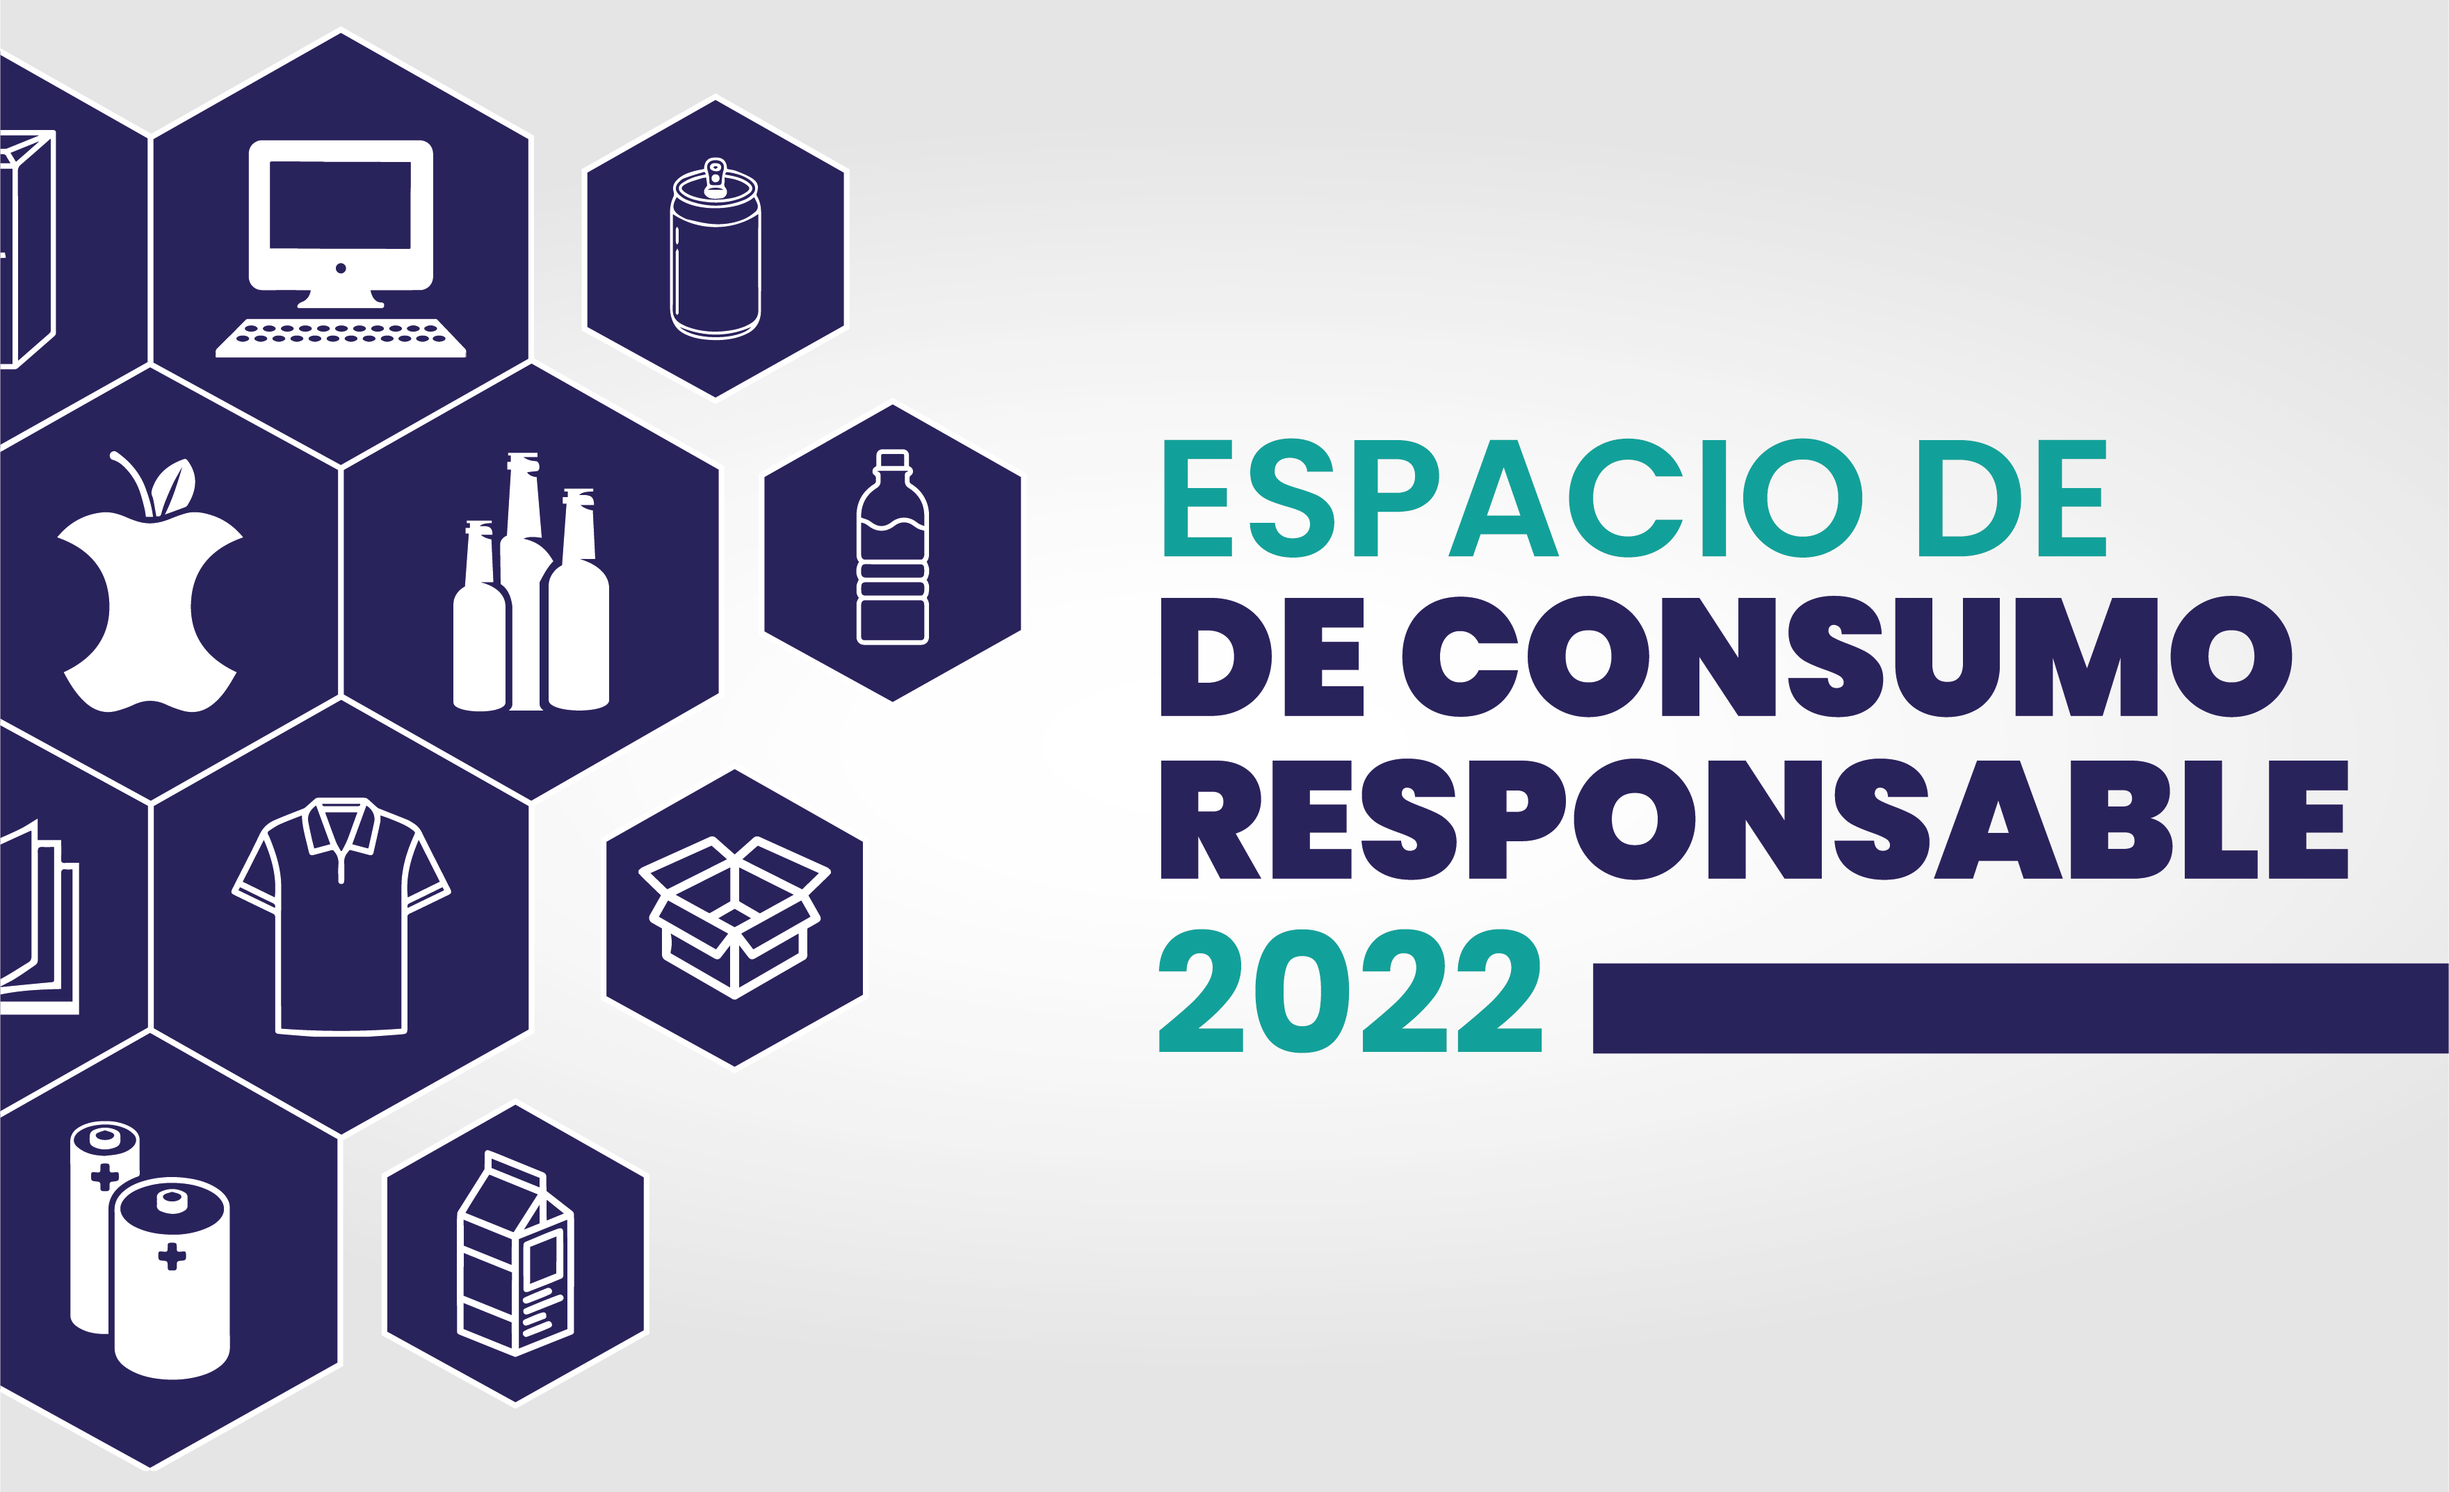
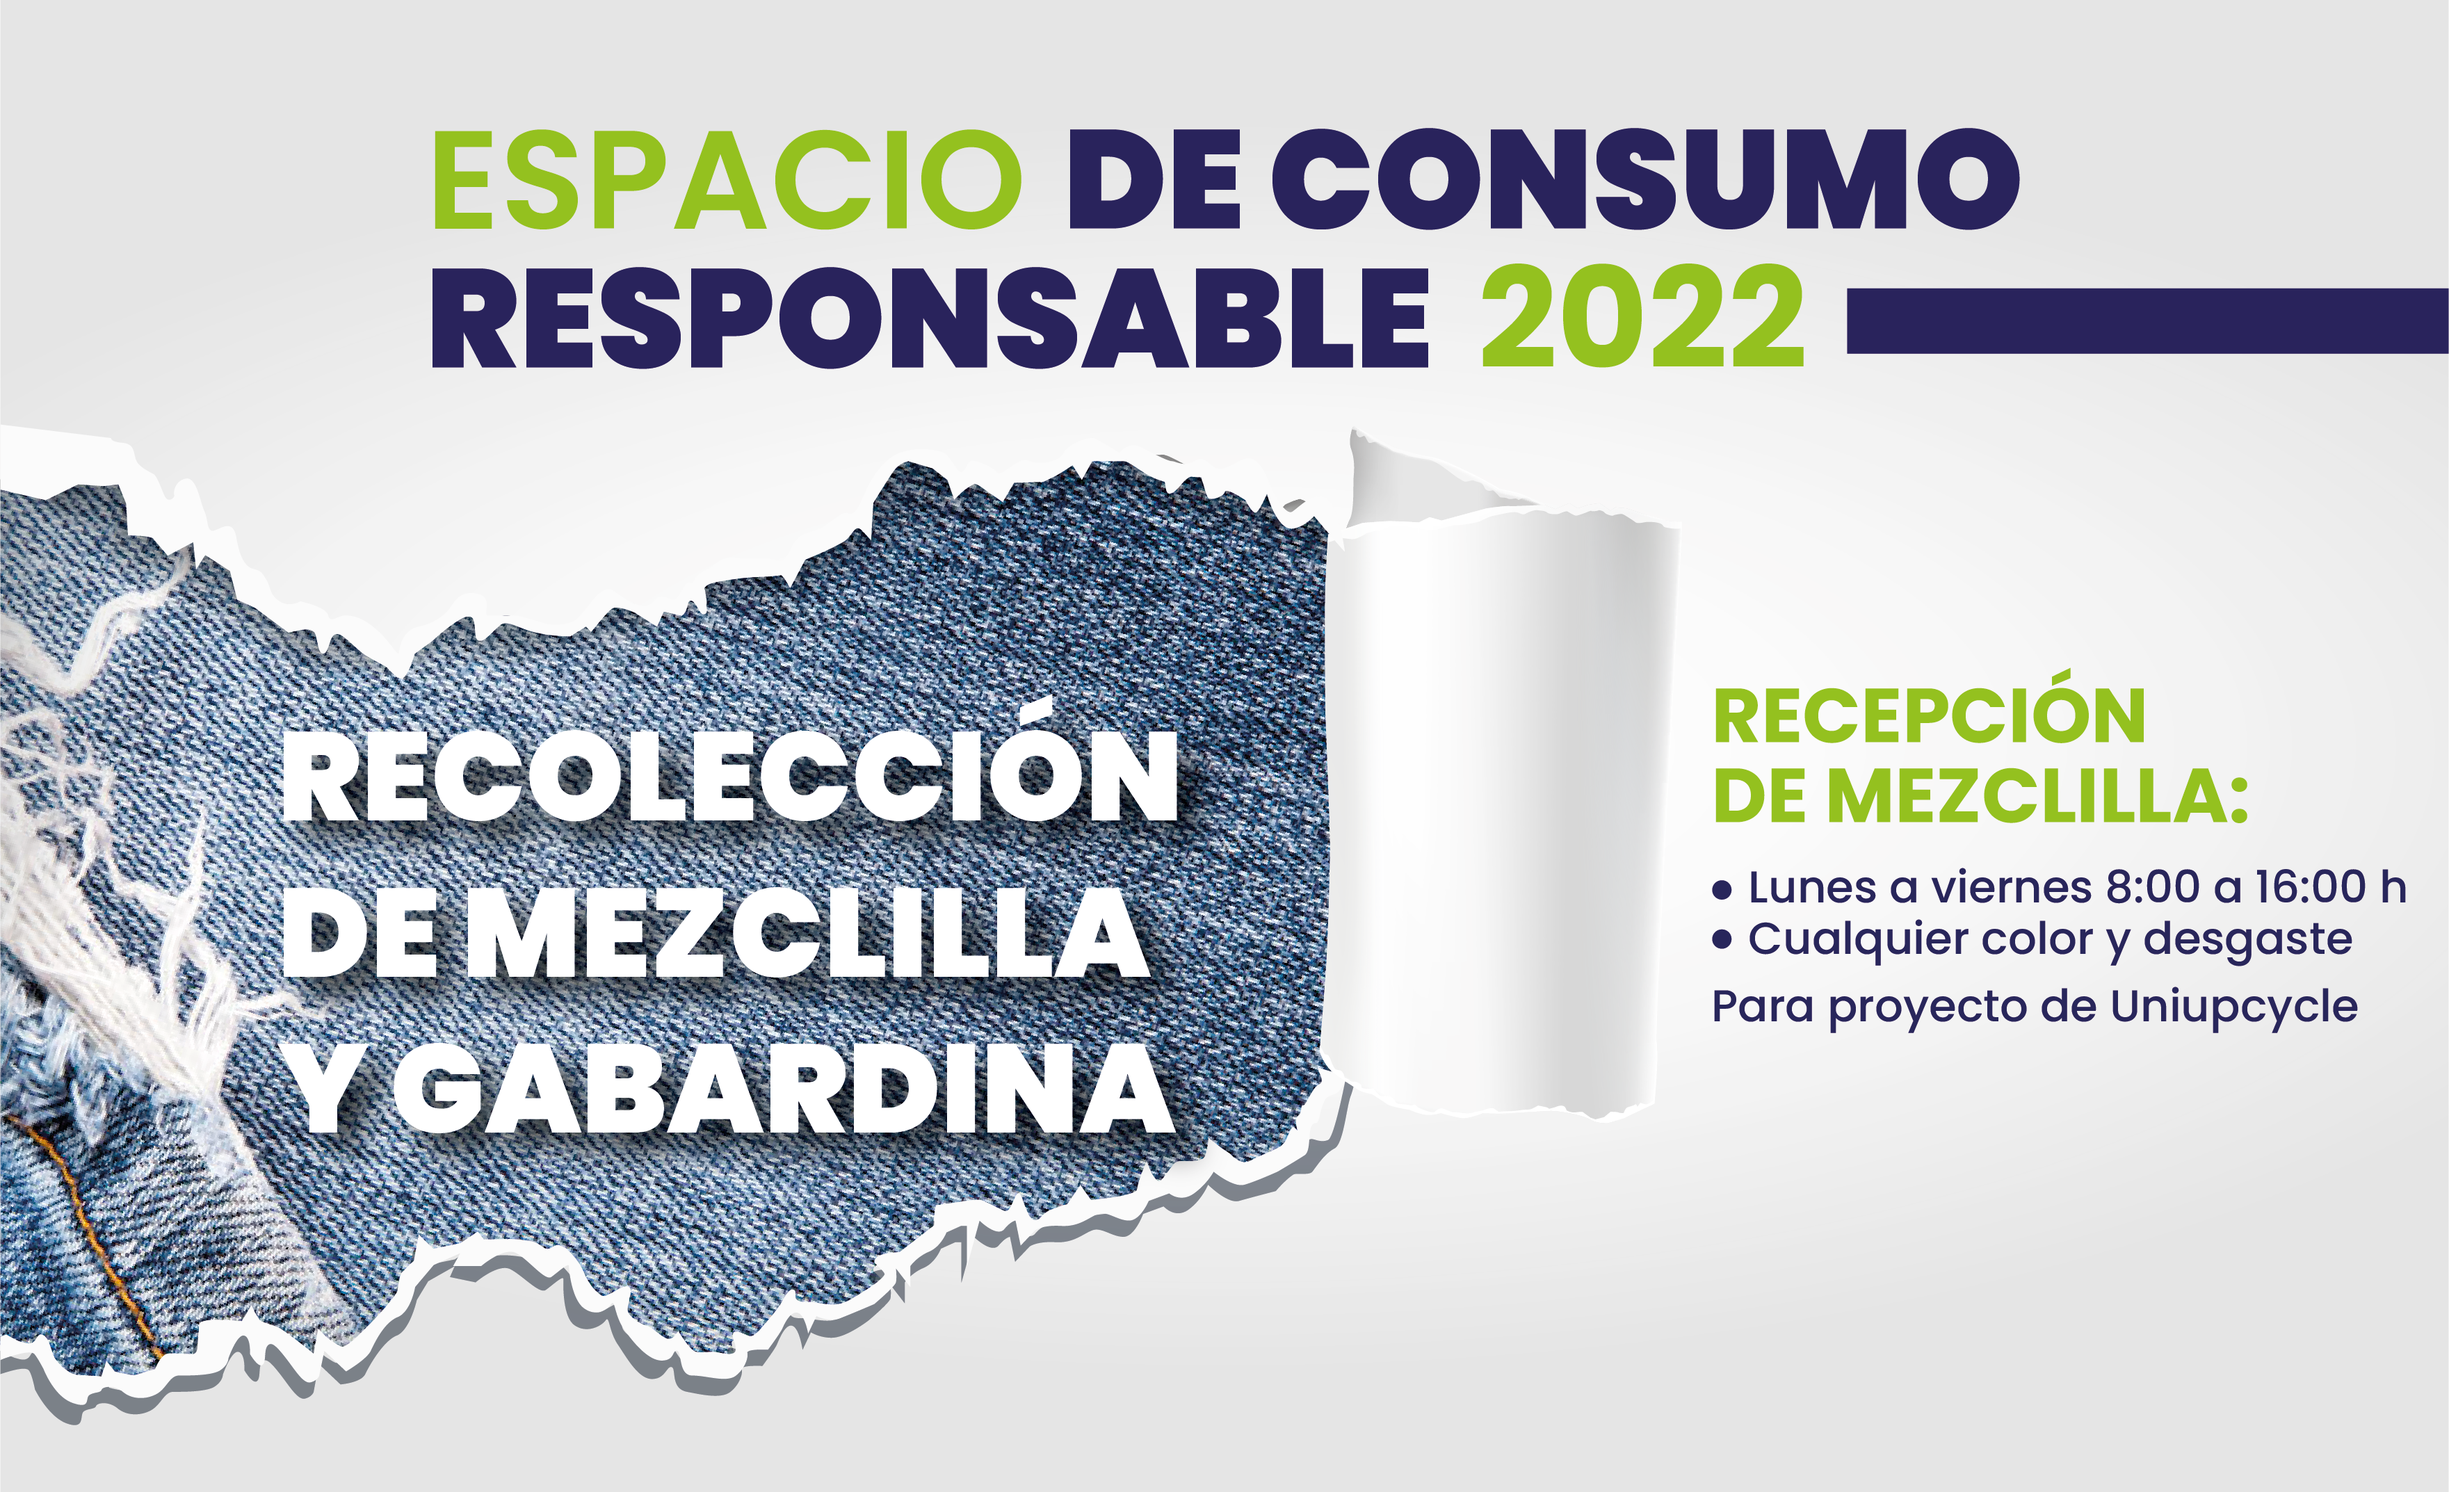
ECR Agosto

diff --git a/resources/views/ConsumoResponsable/contenido.blade.php b/resources/views/ConsumoResponsable/contenido.blade.php
@@ -185,7 +185,7 @@
                 <div class="container">
                     <div class="row justify-content-center">
                         <div class="col-12 col-xl-10 col-lg-10 col-md-10 col-sm-10 text-center ">
-                            <img src="{{asset('storage/imagenes/ConsumoResponsable/CartelECR_Junio22.png')}}"
+                            <img src="{{asset('storage/imagenes/ConsumoResponsable/CartelECR_Agosto22.png')}}"
                                 class="img-fluid" alt="">
                         </div>
                     </div>
